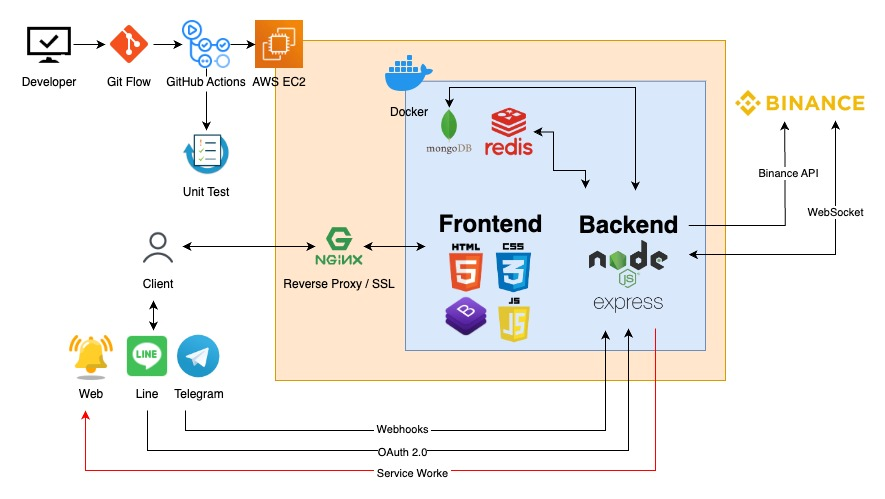
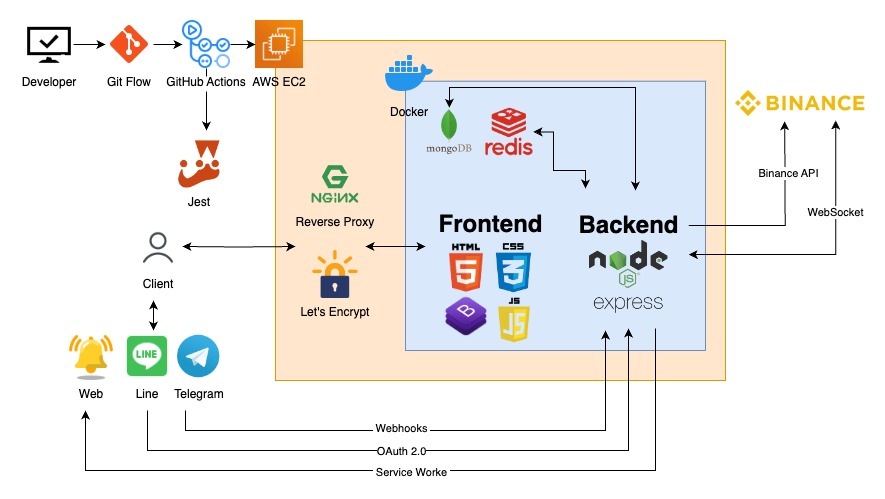
README、架構圖修改

diff --git a/README.md b/README.md
@@ -1,12 +1,14 @@
-# CryptoSniper[CryptoSniper](https://crypto-sniper.minglin.vip/)
+# [CryptoSniper](https://crypto-sniper.minglin.vip/)
 
 ### Crypto Sniper 是一個協助投資人透過均線的篩選，找出標的的一項工具
 
-製作這項工具的緣由：因為 Trading View 的篩選功能不夠客製化，也沒有支援多重時框的篩選功能，所以就決定自己做一個，後來 Trading View 改版，免費版本的到價通知以及追蹤清單這兩項功能也有使用上的限制，所以就又額外開發這兩項功能，理由很單純，我會用到什麼功能就去開發，如果有想要新增什麼功能也歡迎跟我討論，謝謝。
+製作這項工具的緣由：因為平常使用的看盤軟體 Trading View ，篩選的功能不夠客製化，也沒有支援多重時框的篩選功能，所以就決定自己做一個，後來 Trading View 改版，免費版本的到價通知以及追蹤清單這兩項功能也有使用上的限制，所以就又額外開發這兩項功能，所以製作這個工具的理由很單純，我會用到什麼功能就去開發，如果有想要新增什麼功能也歡迎跟我討論，謝謝。
 
-1. 透過均線的篩選找出標的，且支援多重時框篩選功能
-2. 三種類型的即時報價通知，分別為 Web、Telegram、Line
-3. 支援加入追蹤清單、策略儲存的功能
+1. 使用者可以透過本地登入或是使用 Google 以及 Line 的第三方登入
+2. 使用 Redis 加速搜尋效率，每次篩選最多支援四個時間週期，每個時間週期最多支援四條均線（MA）
+3. 支援儲存篩選條件、追蹤清單功能，點擊標的名稱可即時顯示 K 線圖表
+4. 支援 Web、Telegram、Line，三種到價通知管道
+5. 透過 GitHub Action 使用 unit testing 和 Docker 部署，完成 CI/CD
 
 測試用：
 
@@ -42,4 +44,5 @@
 ## 聯絡我
 
 林右銘（ Ming ）
-ben014335@gmail.com
+Email：ben014335@gmail.com
+Linkedin：https://www.linkedin.com/in/youminglin/
